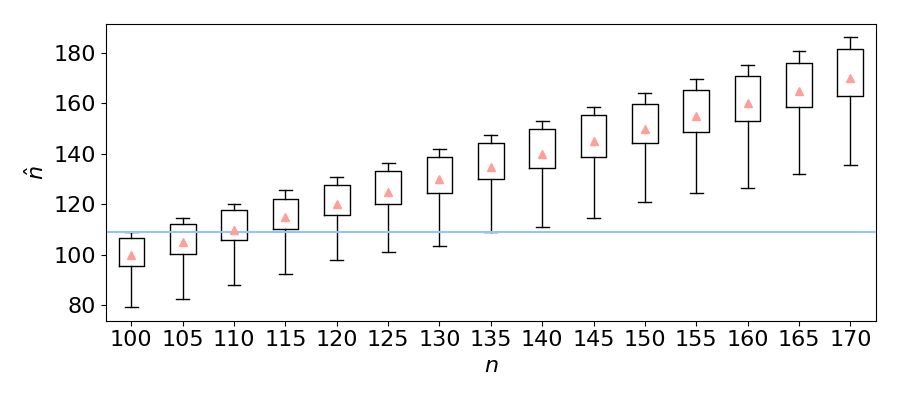
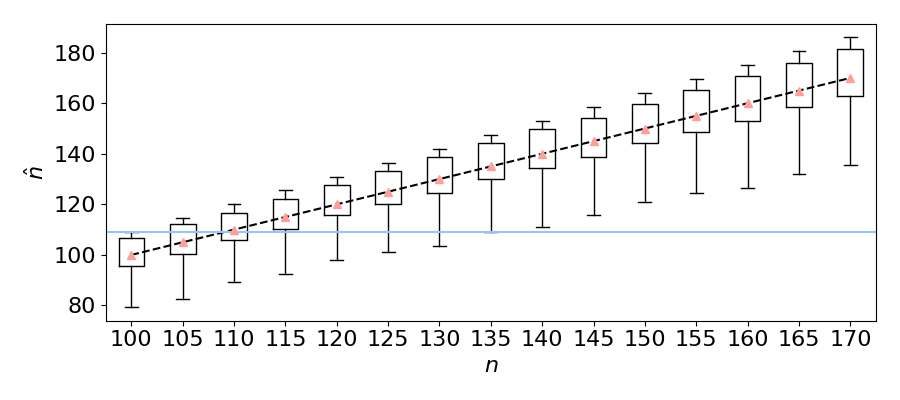
read thru

diff --git a/_posts/2019-11-15-german-tank-problem.md b/_posts/2019-11-15-german-tank-problem.md
@@ -19,7 +19,7 @@ The Allies captured a (assumed) random sample of $k$ tanks from the German force
     <figcaption>An outcome of a random sample (without replacement) of German tanks, serial numbers inscribed. Based on this observation, how many tanks do you estimate the Germans have?</figcaption>
 </figure>
 
-The number of tanks is of course greater than or equal to the maximum serial number observed: $n \geq \max x_i$. Given the sample above, estimating that the Germans have fewer than 156 tanks would be outrageous. However, estimating that the Germans have 156 tanks seems too conservative; this estimate assumes that we happened to capture the most recently manufactured tank. Intuitively, we should estimate the total number of tanks to be 156 *plus some number* to reflect the small likelihood that we captured the very last tank to come out of the factory (as opposed to not capturing it). How large should this number be?
+The number of tanks is of course greater than or equal to the maximum serial number observed: $n \geq \max x_i$. Given the sample above, estimating that the Germans have fewer than 156 tanks would be absurd. However, estimating that the Germans have 156 tanks seems too conservative; this estimate assumes that we happened to capture the most recently manufactured tank. Intuitively, we should estimate the total number of tanks to be 156 *plus some number* to reflect the small likelihood that we captured the very last tank to come out of the factory (as opposed to not capturing it). How large should this number be?
 
 Let's delve into the math to answer this question, but feel free to skip to `# an unbiased estimator` if you want to know right away.
 
@@ -62,7 +62,7 @@ We'll use this function to simulate tank capture and assess two different estima
 
 # what is an estimator?
 
-In general, an *estimator* maps an outcome of a random experiment to an estimate of a parameter that characterizes the dgp. In the German tank problem, an outcome is a set of serial numbers on the captured tanks, $$\{x_1, x_2, ..., x_k\}$$, and we aim to, from this, estimate the total number of tanks, $n$, which fully characterizes the dgp (in addition to $k$). One estimator of $n$ for the German tank problem is the maximum observed serial number $m\equiv \max x_i$. 
+In general, an *estimator* maps an outcome of a random experiment to an estimate of a parameter that characterizes the underlying dgp. In the German tank problem, an outcome is a set of serial numbers on the captured tanks, $$\{x_1, x_2, ..., x_k\}$$, and we aim to, from this, estimate the total number of tanks, $n$, which fully characterizes the dgp (in addition to $k$). We already discussed one estimator of $n$ for the German tank problem: the maximum observed serial number $m\equiv \max x_i$. 
 
 We aim to derive an *unbiased* estimator, meaning that, on average, the estimator recovers the true value of the parameter in the dgp. The average here is over the ensemble of possible outcomes generated by the dgp. 
 
@@ -74,7 +74,7 @@ The maximum serial number $m$ is a biased estimator because it is either equal t
     <figcaption>Using the maximum serial number as the estimator of $n$ yields a biased estimator; the average of the estimate over 10,000 simulations is less than the true number of tanks $n$.</figcaption>
 </figure>
 
-# persuing an unbiased estimator of $n$
+# pursuing an unbiased estimator of $n$
 
 Let us proceed to derive an *un*biased estimator based on the maximum serial number observed, $m$. We will find out what number to add to $m$ to arrive at our unbiased estimate of $n$. 
 
@@ -85,7 +85,7 @@ Let $M$ be the random variable that is the maximum serial number. Then, the prob
 
 $$Pr(M=m|n) = \dfrac{\binom{m-1}{k-1}}{\binom{n}{k}}$$
 
-since, as the schematic below illustrates, there are $m-1$ choose $k-1$ distinct sets of $k$ serial numbers where the max number is $m$. All outcomes such that the max serial number is $m$ are independent events, so we can add up the probabilities of each event to arrive at the probability of seeing a max serial number of $m$ conditioned on $n$. This distribution petertains only to $m$ such that $n \geq m\geq k$ since the max serial number cannot be more than the total number of tanks or less than the number of captured tanks.
+since, as the schematic below illustrates, there are $m-1$ choose $k-1$ distinct sets of $k$ serial numbers where the max number is $m$. The set of outcomes such that the max serial number is $m$ consists of independent events, so we can add up the probabilities of each event to arrive at the probability of seeing a max serial number of $m$ conditioned on $n$. This distribution pertertains only to $m$ such that $n \geq m\geq k$ since the max serial number cannot be more than the total number of tanks or less than the number of captured tanks.
 
 {:.centerr}
 <figure>
@@ -111,7 +111,7 @@ Now let us find the expected value of $M$ over the outcomes of our dgp.
 
 $$E(M | n) = \displaystyle \sum_{m=k}^n m Pr(M=m|n)$$
 
-We're conditioning on knowing $n$, which seems awkward because the whole point of the German tank problem is that we don't know $n$. Our strategy here is to find $E(M \| n)$, then find what $n$ gives an expected value of $M$ equal to the $m$ we oberved. This gives an unbiased estimator for $n$. Using our earlier expression for $Pr(M=m\|n)$:
+We're conditioning on knowing $n$, which seems awkward because the whole point of the German tank problem is that we don't know $n$. Our strategy here is to find $E(M \| n)$, then find what $n$ gives an expected value of $M$ equal to the $m$ we observed. This gives an unbiased estimator for $n$. Using our earlier expression for $Pr(M=m\|n)$:
 
 $$E(M | n) = \sum_{m=k}^n m \frac{\binom{m-1}{k-1}}{\binom{n}{k}}$$
 
@@ -123,7 +123,7 @@ $$E(M | n) = \dfrac{k}{\binom{n}{k}} \sum_{m=k}^n \frac{m!}{k!(m-k)!}$$
 
 $$E(M | n) = \dfrac{k}{\binom{n}{k}} \sum_{m=k}^n \binom{m}{k}$$
 
-To apply our identity above, we use a change of variables in our sum. Define $\tilde{m}$ and $\tilde{k}$ such that $\tilde{m}-1=m$ and $\tilde{k}-1=k$. Then the sum over $\tilde{m}$ is from $\tilde{k}$ to $n+1$:
+To apply our identity above, we use a change of variables in our sum. Define $\tilde{m}$ and $\tilde{k}$ such that $\tilde{m}-1=m$ and $\tilde{k}-1=k$. Then, we can write the sum in terms of $\tilde{m}$ from $\tilde{k}$ to $n+1$:
 
 $$E(M | n) = \dfrac{k}{\binom{n}{k}} \sum_{\tilde{m}=\tilde{k}}^{n+1} \binom{\tilde{m}-1}{\tilde{k}-1}$$
 
@@ -143,21 +143,21 @@ For $k=5$, we get $E(M \| n=100)$ is c.a. 84.2, comparable to our simulation abo
 
 ## an unbiased estimator
 
-We obtain an unbiased estimator for $n$, $\hat{n}$, by solving the expression above for $E(M \| n)$ for $n$ and replacing $E(M \| n)$ with our observation for $m=\max x_i$. That is, our estimate for the total number of German tanks is the $n$ such that the expected value of $M$ under the data generating process is equal to our observed $m$. We arrive at:
+We obtain an unbiased estimator for $n$, $\hat{n}$, by solving the expression for $E(M \| n)$ directly above for $n$ and replacing $E(M \| n)$ with our observation for $m\equiv\max x_i$. That is, our estimate for the total number of German tanks is the $n$ such that the expected value of $M$ under the data generating process is equal to our observed $m$. We arrive at:
 
 $$\hat{n} = m + \left(\frac{m}{k} - 1\right)$$
 
-Indeed, the estimate of the total number of tanks is the maximum serial number observed plus some number to reflect how unlikely it is to select the most recently manufactured tank (as opposed to missing it). Intuitively, this number gets larger as $m$ gets larger and as $k$ gets smaller. 
+Indeed, the estimate of the total number of tanks is the maximum serial number observed plus some number to reflect the small likelihood (provided $k<<m$) of selecting the most recently manufactured tanks (as opposed to missing them). Intuitively, this number gets larger as $m$ gets larger and as $k$ gets smaller. 
 
-This estimator $\hat{n}$ has a very intuitive interpretation. Imagine placing all of the tanks in a line, from 1 to $n$. Then imagine if the tanks we captured were evenly spaced, i.e. had equal gaps of unobserved tanks between them (including the end). The number that we add to $m$ to arrive at the estimate, $m/k-1$, is the gap between the tanks that would be present if the samples were evenly spaced! I have not proven it yet, but I suspect that $m/k-1$ is the expected gap between unobserved tanks. So we look at the max serial number and add the expected gap between unobserved tanks to arrive at our estimate of $n$.
+This estimator $\hat{n}$ has a very intuitive interpretation. Imagine sorting and placing all of the tanks in a line, from 1 to $n$. Then imagine if the tanks we captured were evenly spaced, i.e. had equal gaps of unobserved tanks between them (including the beginning and end). The number that we add to $m$ to arrive at the estimate, $m/k-1$, is this gap between the sampled tanks! So our estimate for the number of tanks is the max serial number plus the number of unobserved tanks in the gap between captured tanks when we assume they are evenly spaced. I have not proven it yet, but I suspect that $m/k-1$ is the expected gap between captured tank serial numbers once we sort them.
 
 {:.centerr}
 <figure>
     <img src="/images/german_tank_problem/seven_tanks.png" alt="image" style="width: 75%;">
-    <figcaption>If the $k$ captured tanks are evenly spaced among the $m$ total tanks, then the gap between them is $m/k-1$. Consider $n=7$ and $k=3$ with captured tanks labeled red. </figcaption>
+    <figcaption>If the $k$ captured tanks are evenly spaced among the $n$ (sorted) total tanks, then the gap between them is $m/k-1$. Consider $n=7$ and $k=3$ with captured tanks labeled red. Here, the captured tanks are separated by $6/3-1=1$ unobserved tanks.</figcaption>
 </figure>
 
-The estimator $\hat{n}$ for the total number of tanks is unbiased. To see this, I ran 10,000 simulations of the dgp with $n=100$ and $k=5$ using the `capture_tanks` function, then used $\hat{n}$ above to estimate the number of tanks from the max serial number. The distribution of the estimated number of tanks for this estimator is shown below.
+The estimator $\hat{n}$ for the total number of tanks is unbiased. To see this, I ran 10,000 simulations of the dgp with $n=100$ and $k=5$ using the `capture_tanks` function, then used $\hat{n}$ above to estimate the number of tanks from the max serial number (and $k$). The distribution of the estimated number of tanks for this estimator is shown below.
 
 {:.centerr}
 <figure>
@@ -165,7 +165,7 @@ The estimator $\hat{n}$ for the total number of tanks is unbiased. To see this, 
     <figcaption>The estimator $\hat{n}$ above is unbiased since, over many simulations, its average value is the true number of tanks.</figcaption>
 </figure>
 
-One can also show that the estimator $\hat{n}$ is *efficient*, meaning that it exhibits the smallest variance among all other unbiased estimators. 
+One can also show that the estimator $\hat{n}$ is *efficient* [1], meaning that it exhibits the smallest variance among all other unbiased estimators. 
 
 Another desirable property of an estimator is *consistency*. Loosely, this means the distribution of the estimator will tighten in on the true value of $n$ as $k$ increases. As we capture more tanks (increase $k$), we become more and more likely to correctly estimate $n$. In the extreme case $k=n$, we will of course always correctly estimate $n$. Below, I show the distribution of the estimated number of tanks $\hat{n}$ among 10,000 simulations ($n=100$) for several different values of $k$. Indeed, the distribution narrows in on the true number of tanks, suggesting that this estimator is consistent.
 
@@ -177,20 +177,20 @@ Another desirable property of an estimator is *consistency*. Loosely, this means
 
 # confidence intervals
 
-Our estimate $\hat{n}$ is a point estimate. In an interval estimate, we desire to give an interval in which the true number of tanks will fall, with a specified confidence. The idea behind "confidence" is as follows. Say the maximum serial number we observed is $m=100$ with a sample of $k=10$. Also say one proposes that the Germans have 10,000 tanks. It could totally be true that we happened to capture only from within the first 100 tanks of the 10,000; we cannot disprove it from our sample. However, given that $n=10,000$, it is an unlikely outcome that all $k=10$ tanks were sampled from only the first 100 of the 10,000 tanks; it is more likely to have a larger max serial number than 100 if there were 10,000 tanks. This gives us some confidence that the Germans have less than 10,000 tanks.
+Our estimate $\hat{n}$ is a *point* estimate. In an *interval* estimate, we desire to give an interval in which the true number of tanks will fall, with a specified confidence. The idea behind "confidence" is as follows. Say the maximum serial number we observed is $m=100$ with a sample size of $k=10$, and consider the hypothesis that the Germans have 10,000 tanks. It could totally be true that we happened to capture only from within the first $100$ tanks of the $10,000$; we cannot disprove it from our sample. However, given that $n=10,000$, it is an unlikely outcome that all $k=10$ tanks were sampled from only the first $100$ of the $10,000$ tanks; it is more likely to have a larger max serial number than $100$ if there were $10,000$ tanks. This gives us some confidence that the Germans have less than $10,000$ tanks.
 
-The box plots below visualize the distribution of $\hat{n}$ over 100,000 simulations for a series of $n$, simulated using the `capture_tanks` function. The blue horizontal line is the point estimate $\hat{n}$ for $k=10$ and $m=100$. Based on the box plots, which break the distributions into quantiles, only 25% of the time would we see $\hat{n}$ below what we observe when $n=135$. Thus, based on our observation $m=100$ with $k=10$ captured tanks, we could reject the null hypothesis that $n=135$ at a level of significance of 25%, since it is unlikely that the serial number would be so low (100) if there were 135 tanks. Therefore, if $m=100$ and $k=10$, we would say that the number of tanks the Germans have is less than 135 with 25% confidence.
+The box plots below visualize the distribution of $\hat{n}$ over 100,000 simulations for a series of $n$, simulated using the `capture_tanks` function. The blue horizontal line is the point estimate $\hat{n}$ for $k=10$ and $m=100$. Based on the box plots, which break the distributions into quantiles, we would we see $\hat{n}$ below what we observe with only 25% probability when $n\approx 135$. Thus, based on our observation $m=100$ with $k=10$ captured tanks, we would reject the null hypothesis that $n=135$ at a level of significance of 75%, since it is sufficiently unlikely that the max serial number would be so low (100) if there were truly 135 tanks. Therefore, if $m=100$ and $k=10$, we would say that the number of tanks the Germans have is less than 135 with 75% confidence.
 
 {:.centerr}
 <figure>
     <img src="/images/german_tank_problem/confidence.png" alt="image" style="width: 75%;">
-    <figcaption>A series of box plots shows the distribution of $\hat{n}$ over 100,000 simulations. The triangle symbol shows the mean. The blue horizontal line is $\hat{n}$ for when $k=10$ and $m=100$.</figcaption>
+    <figcaption>A series of box plots shows the distribution of $\hat{n}$ over 100,000 simulations. The vertical dashed line shows equality between the true $n$ and the estimated number of tanks, $\hat{n}$; the triangle symbol shows the mean. The blue horizontal line is $\hat{n}$ for when $k=10$ and $m=100$.</figcaption>
 </figure>
 
 
 # what I'm exploring next
-* using the Bayesian framework to estimate the number of tanks
-* proove that $\hat{n}$ is the minimum variance unbiased estimator (that it is an efficient estimator)
+* applying the Bayesian framework to estimate the number of tanks
+* prove that $\hat{n}$ is the minimum variance unbiased estimator (that it is an efficient estimator)
 * learn probabilistic programming in the context of the German tank problem
 
 # references
